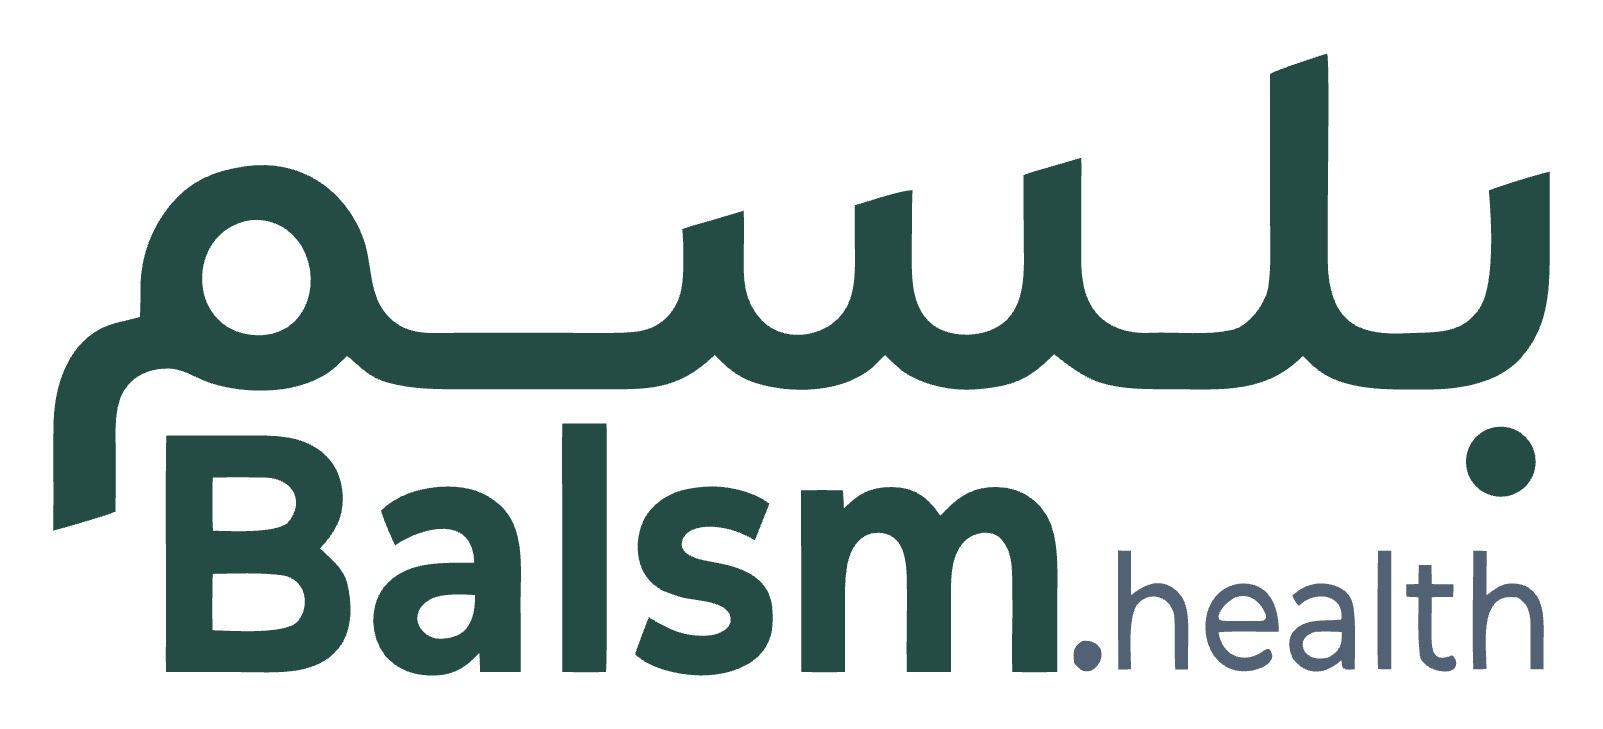
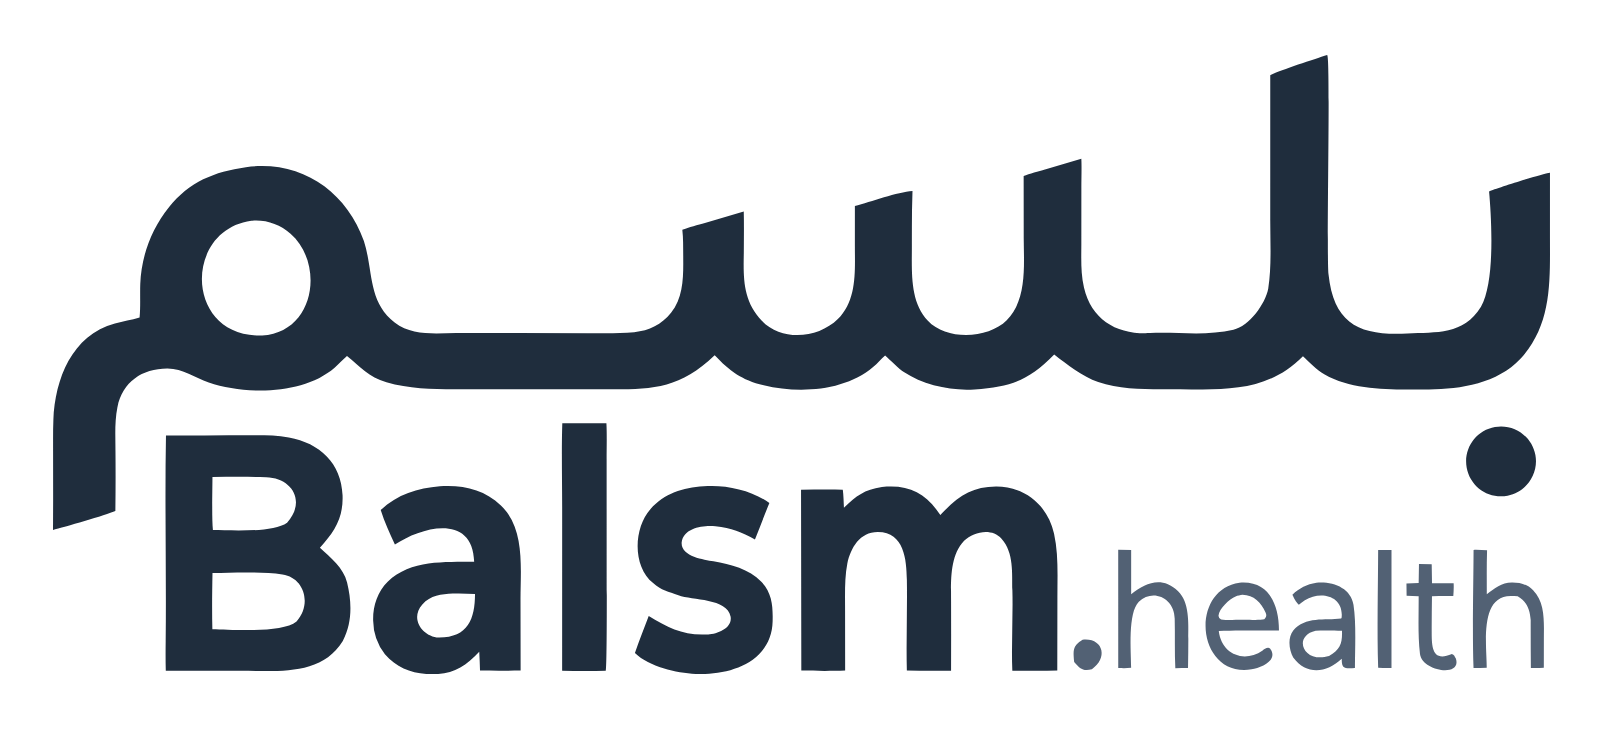
[Brand] change typography coloring

Changed region(s): [[0.0312, 0.0604, 0.9669, 0.9355], [0.9046, 0.5734, 0.9669, 0.6941], [0.7486, 0.845, 0.8422, 0.8752]]

diff --git a/brand/colors_and_type.css b/brand/colors_and_type.css
@@ -50,11 +50,15 @@
   --balsm-accent-bg:  var(--petal-aqua-50);
 
   /* ── Wordmark ────────────────────────────────────────────────
-     The official wordmark is now deep pine green #254B45 (was the
-     warm olive gray #6B6B60). The ".health" TLD sits in a cool
-     blue-gray. Matches brand/logo-*.svg. */
-  --balsm-wordmark:     #254B45;   /* بلسم · Balsm — deep pine green */
-  --balsm-wordmark-tld: #526174;   /* .health — slate gray */
+     The official wordmark is navy slate #1F2D3D (previously pine green
+     #254B45, briefly petrol #203A43, and originally warm olive gray
+     #6B6B60). It shares a hue with the ".health" TLD — 267° vs 268° —
+     so the two are one colour at two lightnesses, not two colours.
+     Keep them in step: restating the wordmark means restating the TLD.
+     Matches brand/logo-*.svg + brand/wordmark.svg.
+     Comparison sheet: brand/wordmark-color-study.html */
+  --balsm-wordmark:     #1F2D3D;   /* بلسم · Balsm — navy slate, L* 17.9 */
+  --balsm-wordmark-tld: #526174;   /* .health — same hue, L* 40.5 */
 
   --balsm-sun-400:  #F5C842;   /* tiny accent — never used as surface */
   --balsm-sun-500:  #E5B428;
